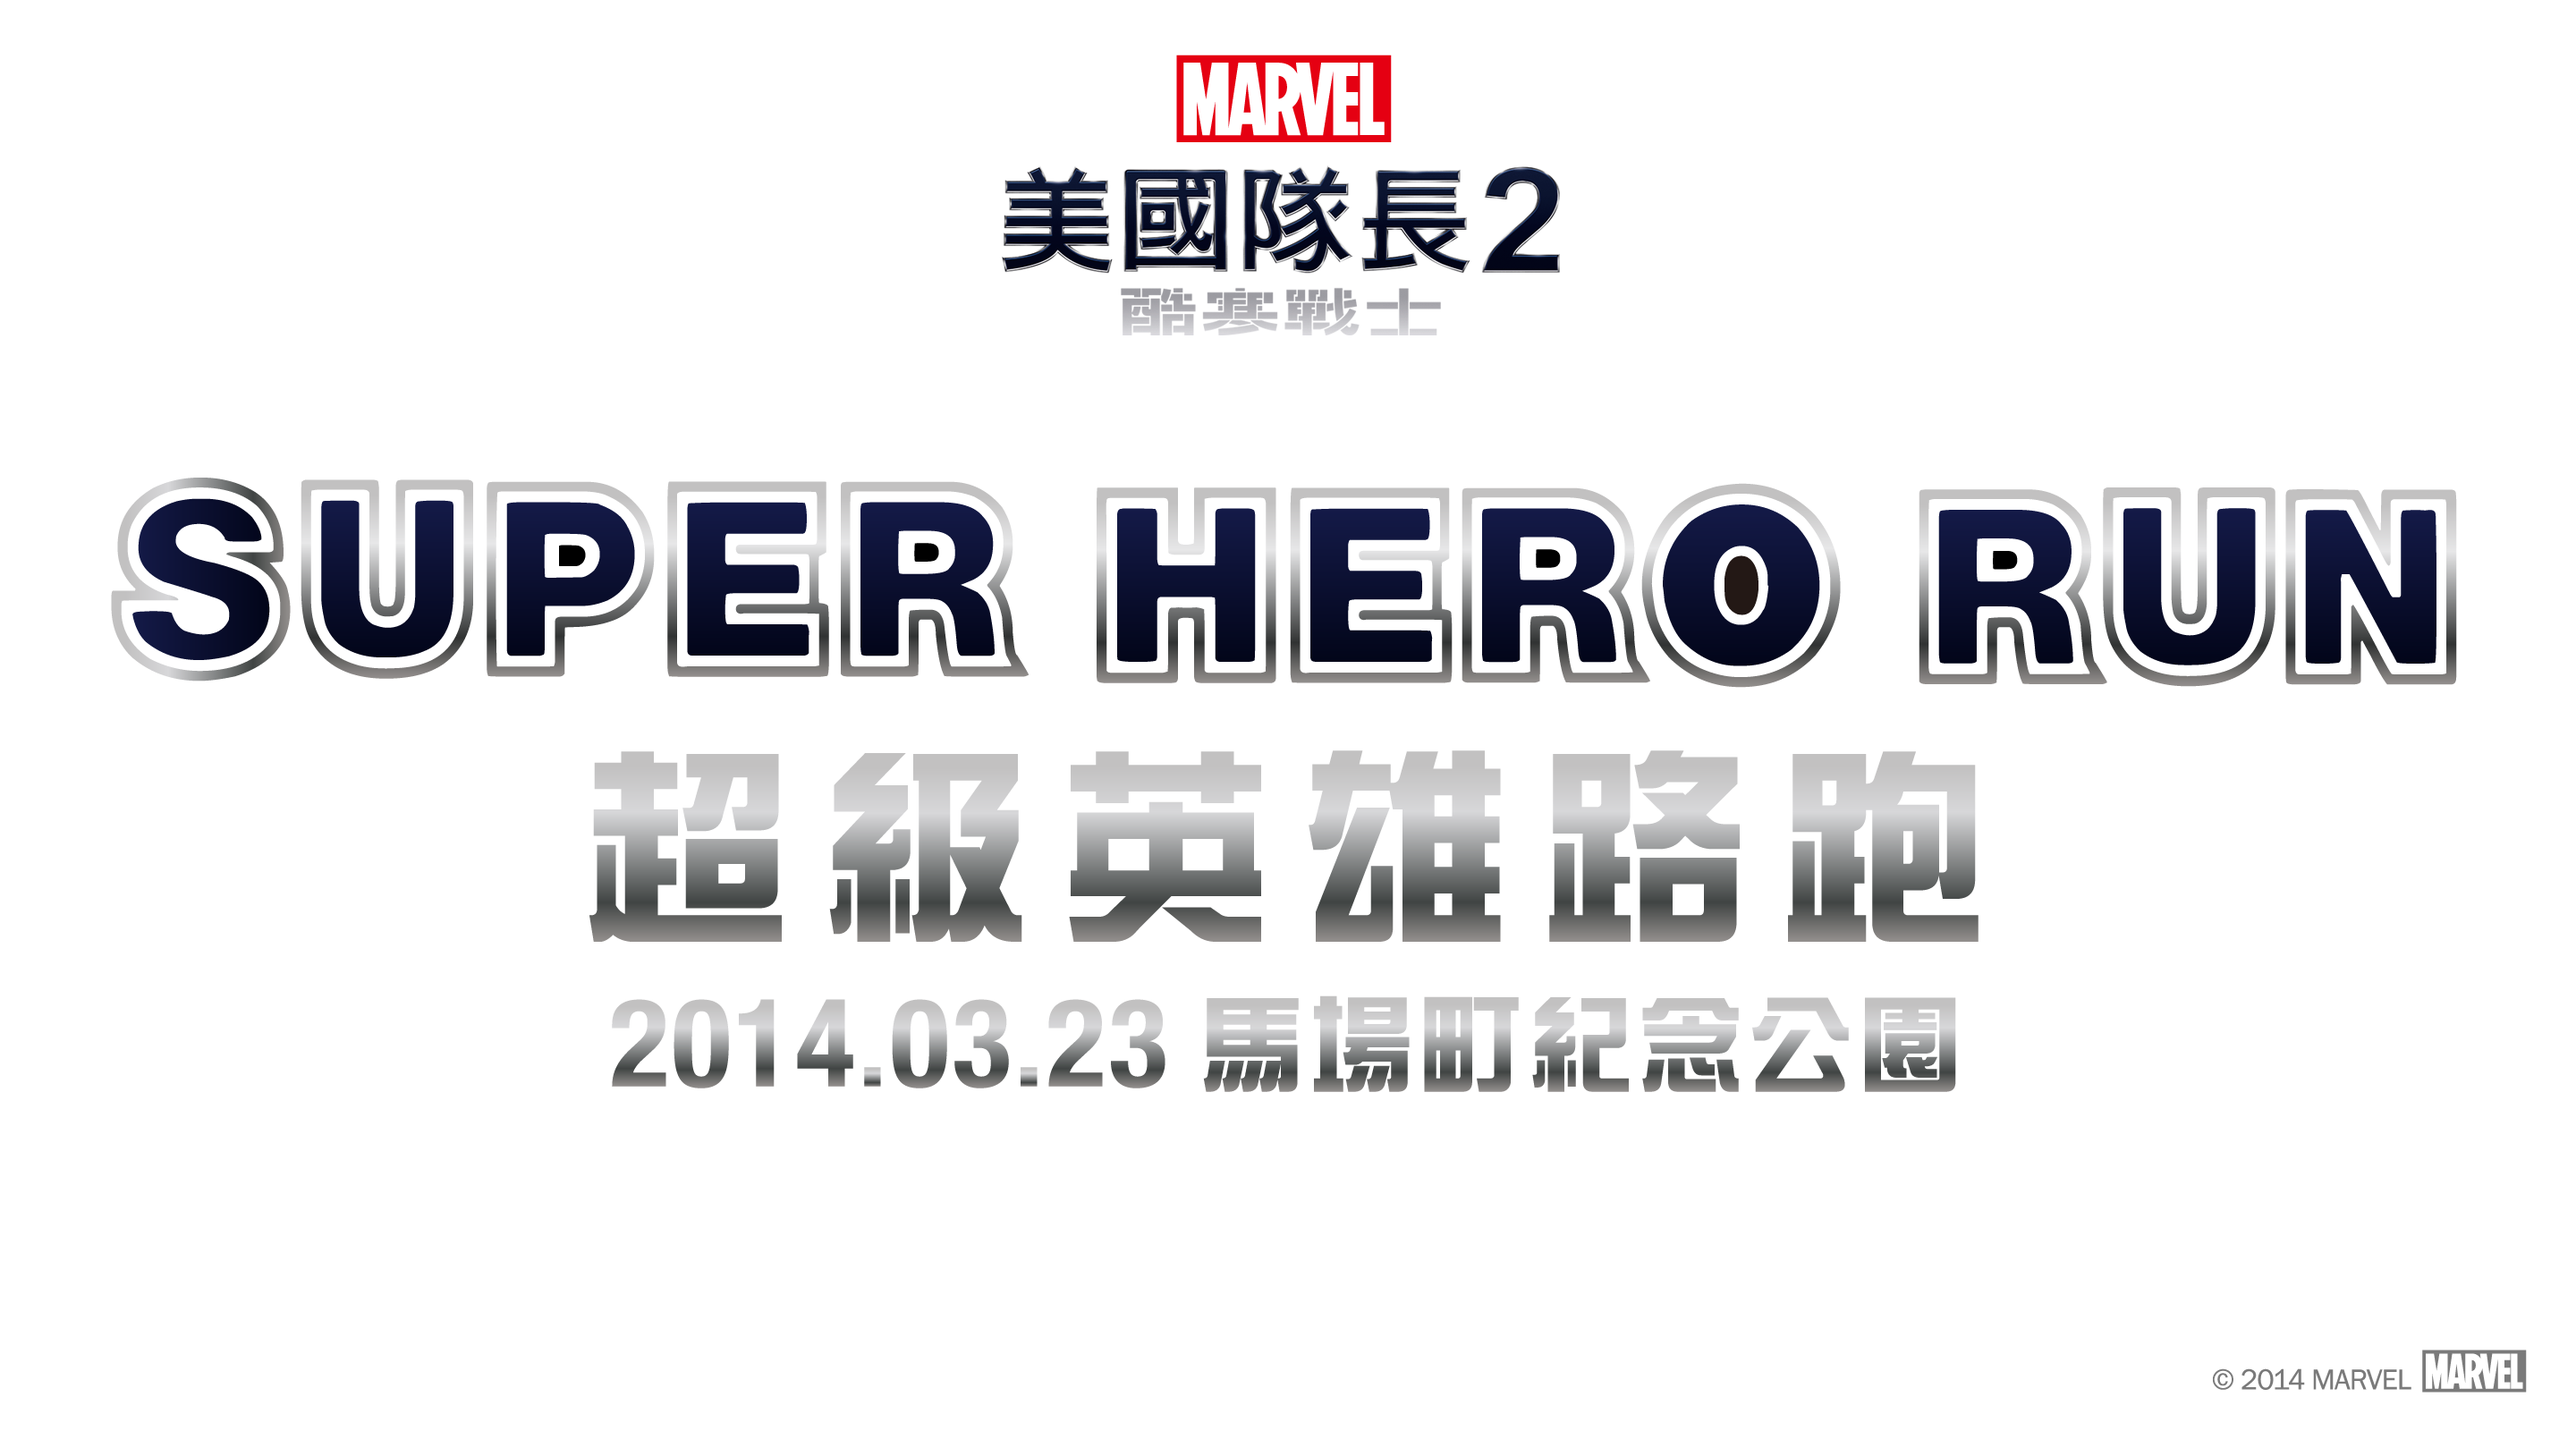
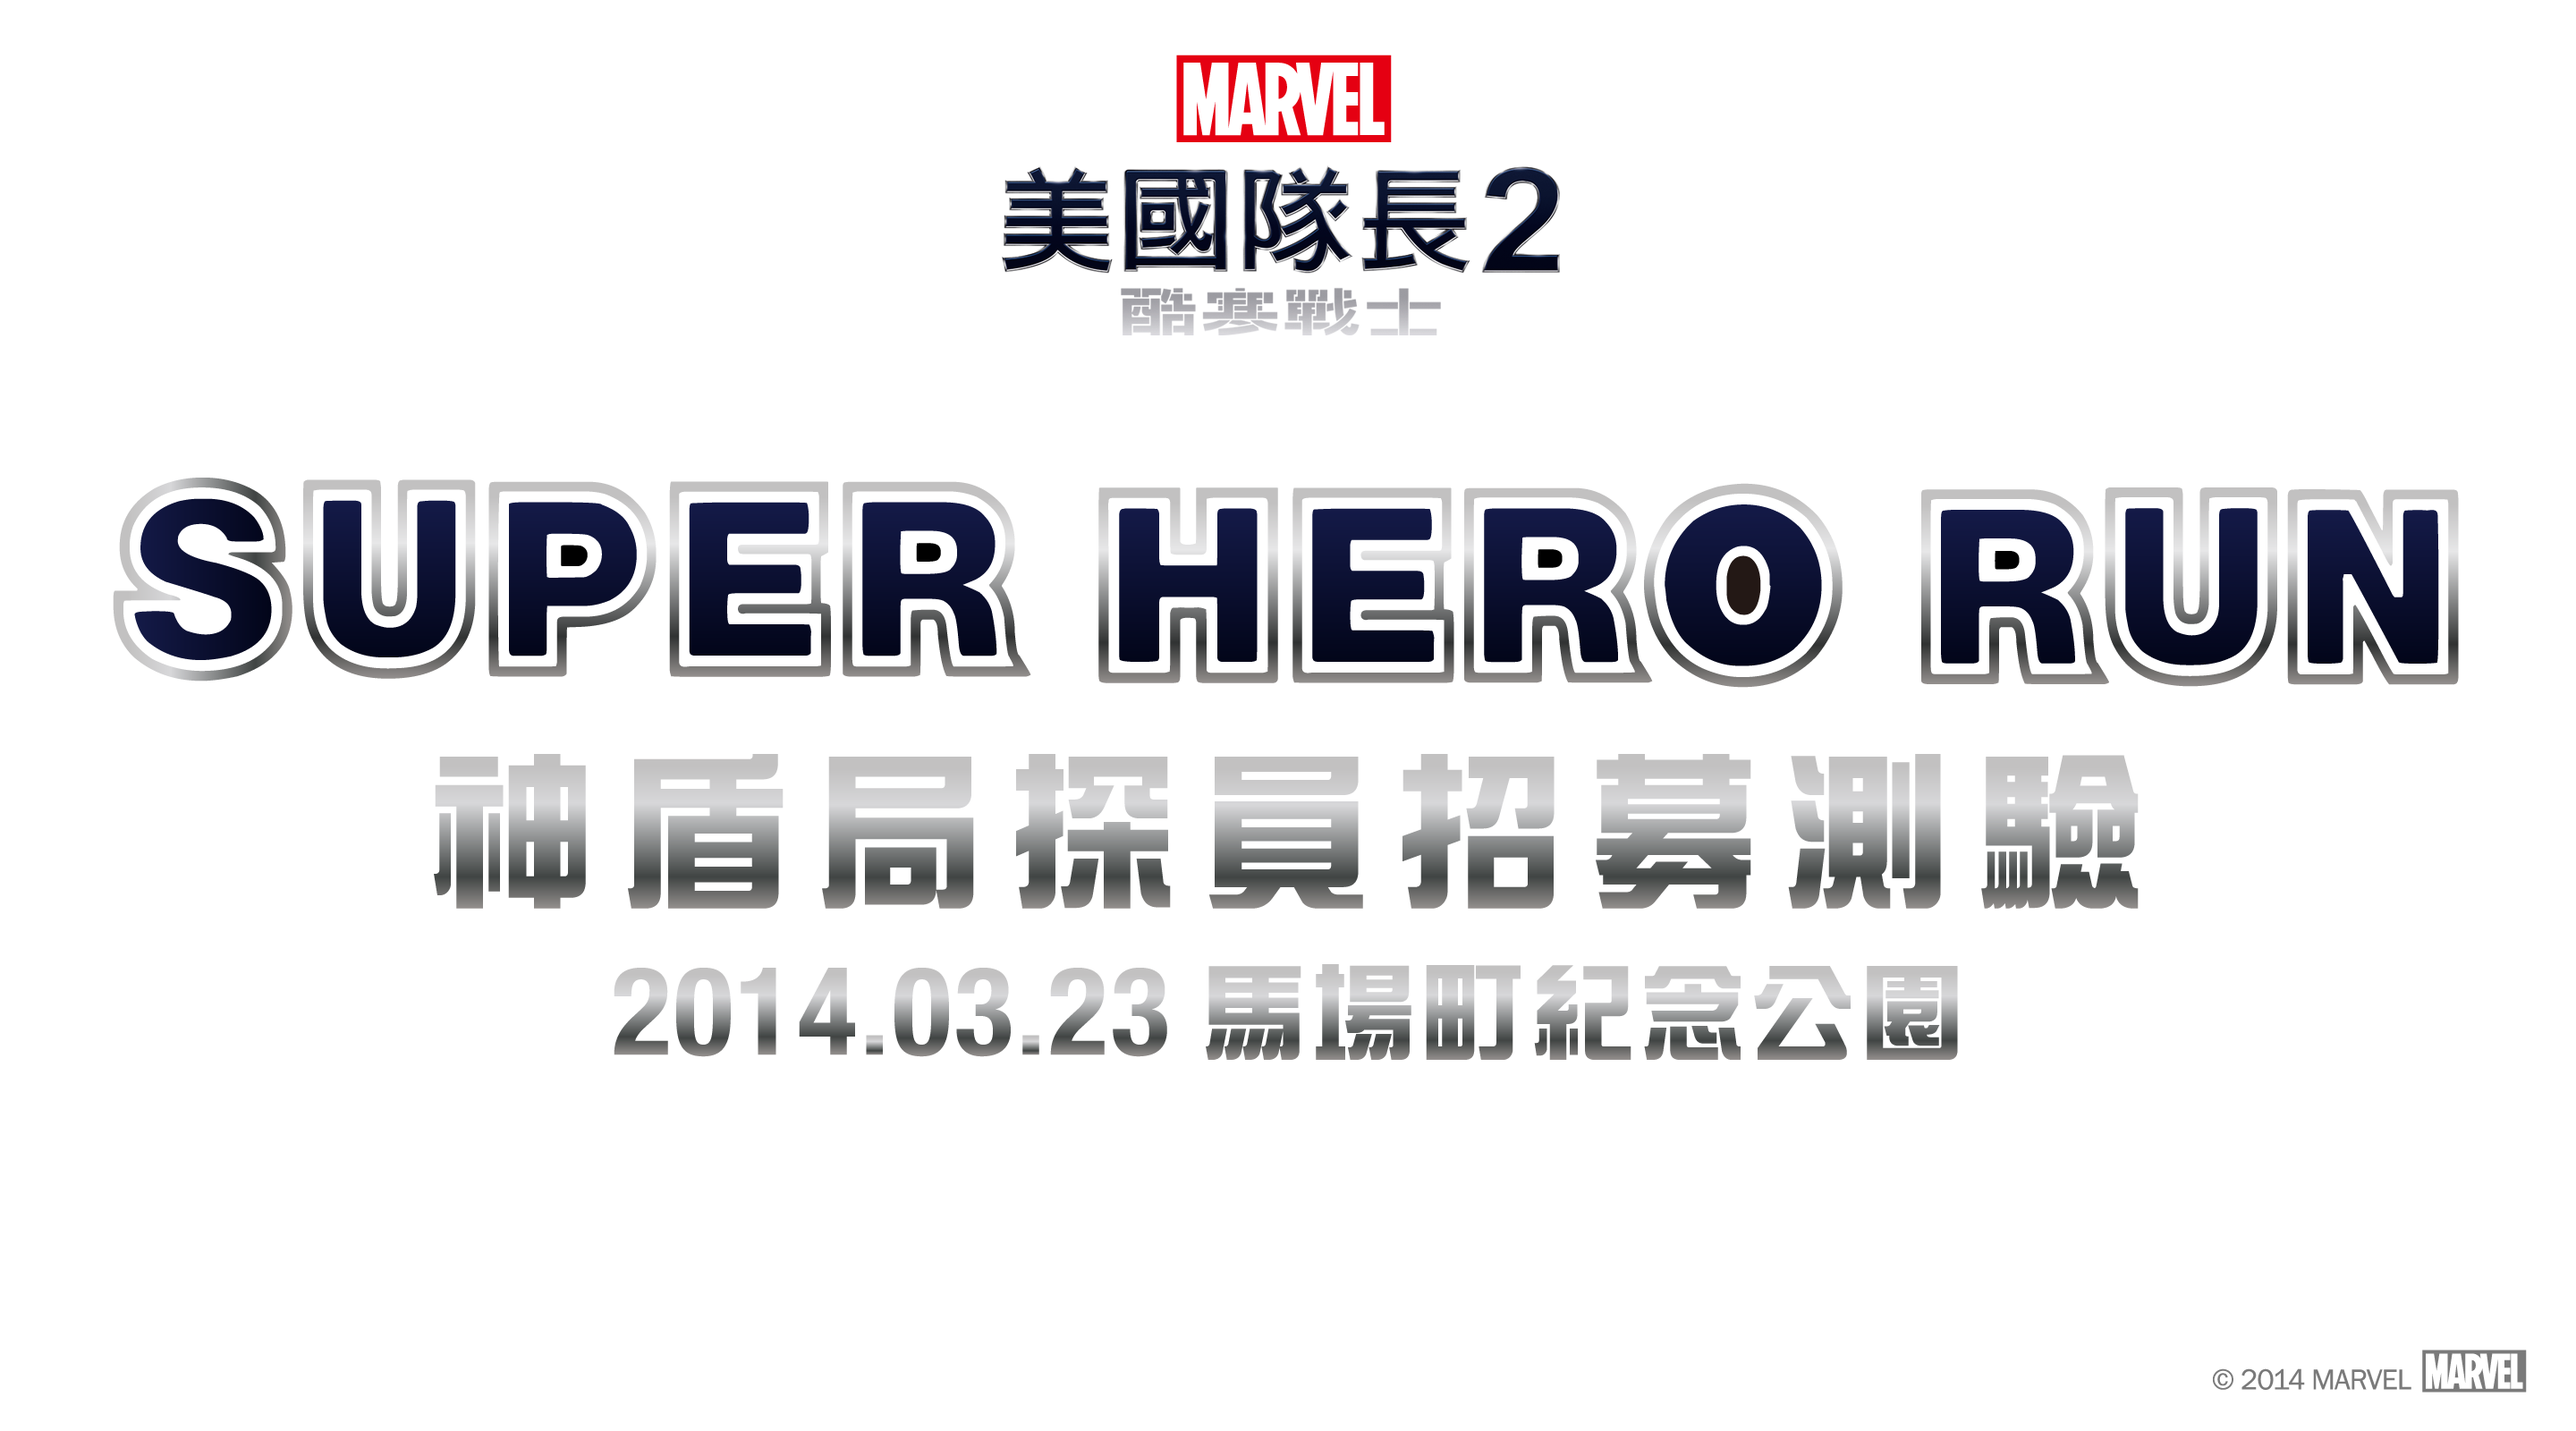
what the fuck modify

diff --git a/config/app.js b/config/app.js
@@ -1,3 +1,3 @@
 module.exports = {
-  appName : 'Captain America Run'
+  appName : 'Super Hero Run 神盾局探員招募測驗'
 };
